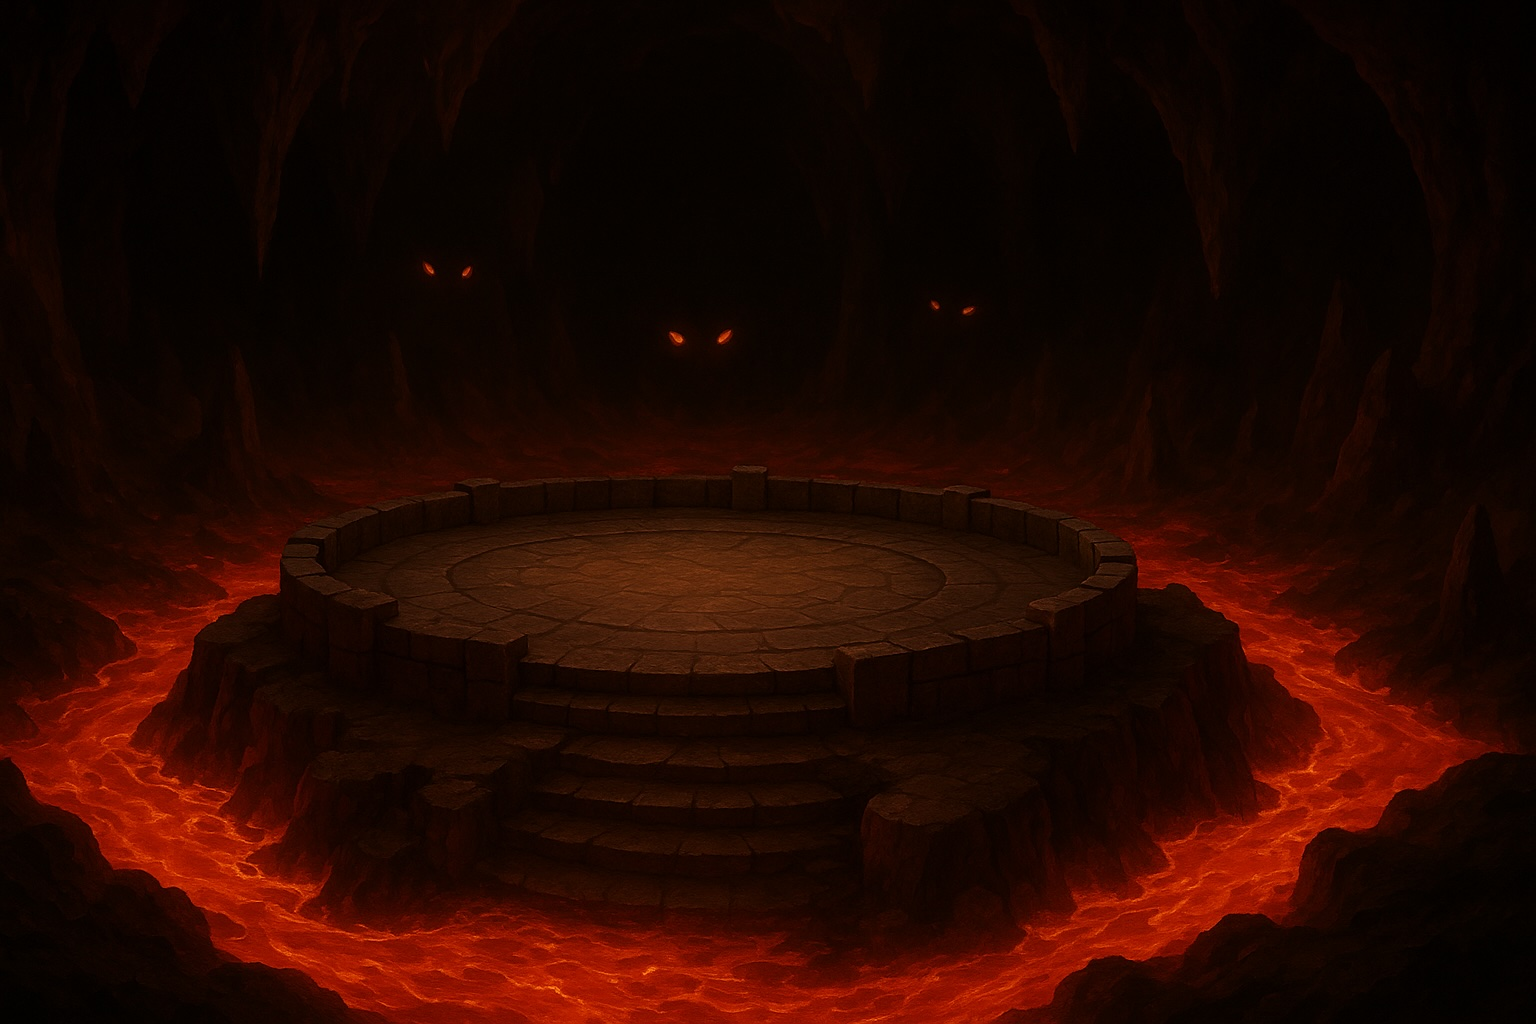
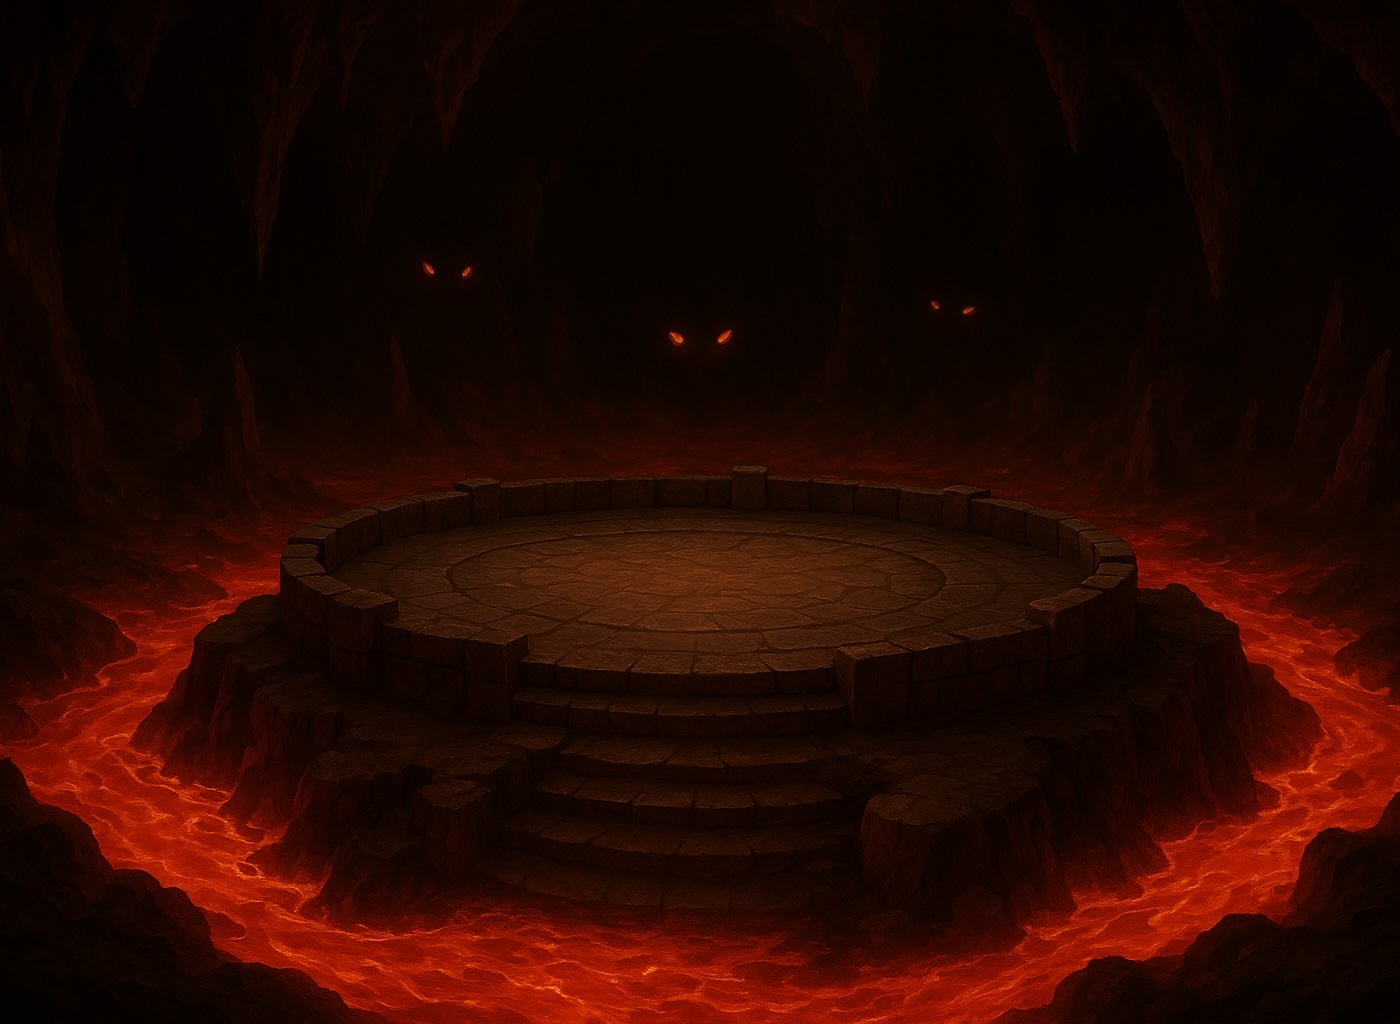
centered background

diff --git a/client/src/styles/global.css b/client/src/styles/global.css
@@ -129,7 +129,7 @@ h1 {
   /* animation-timing-function: linear; */
 }
 .AppGame {
-  background-image: url('/images/bg1.jpg');
+  background-image: url('/images/bg2.jpg');
 }
 @keyframes bg-animate {
   0% {background-position: center;}
